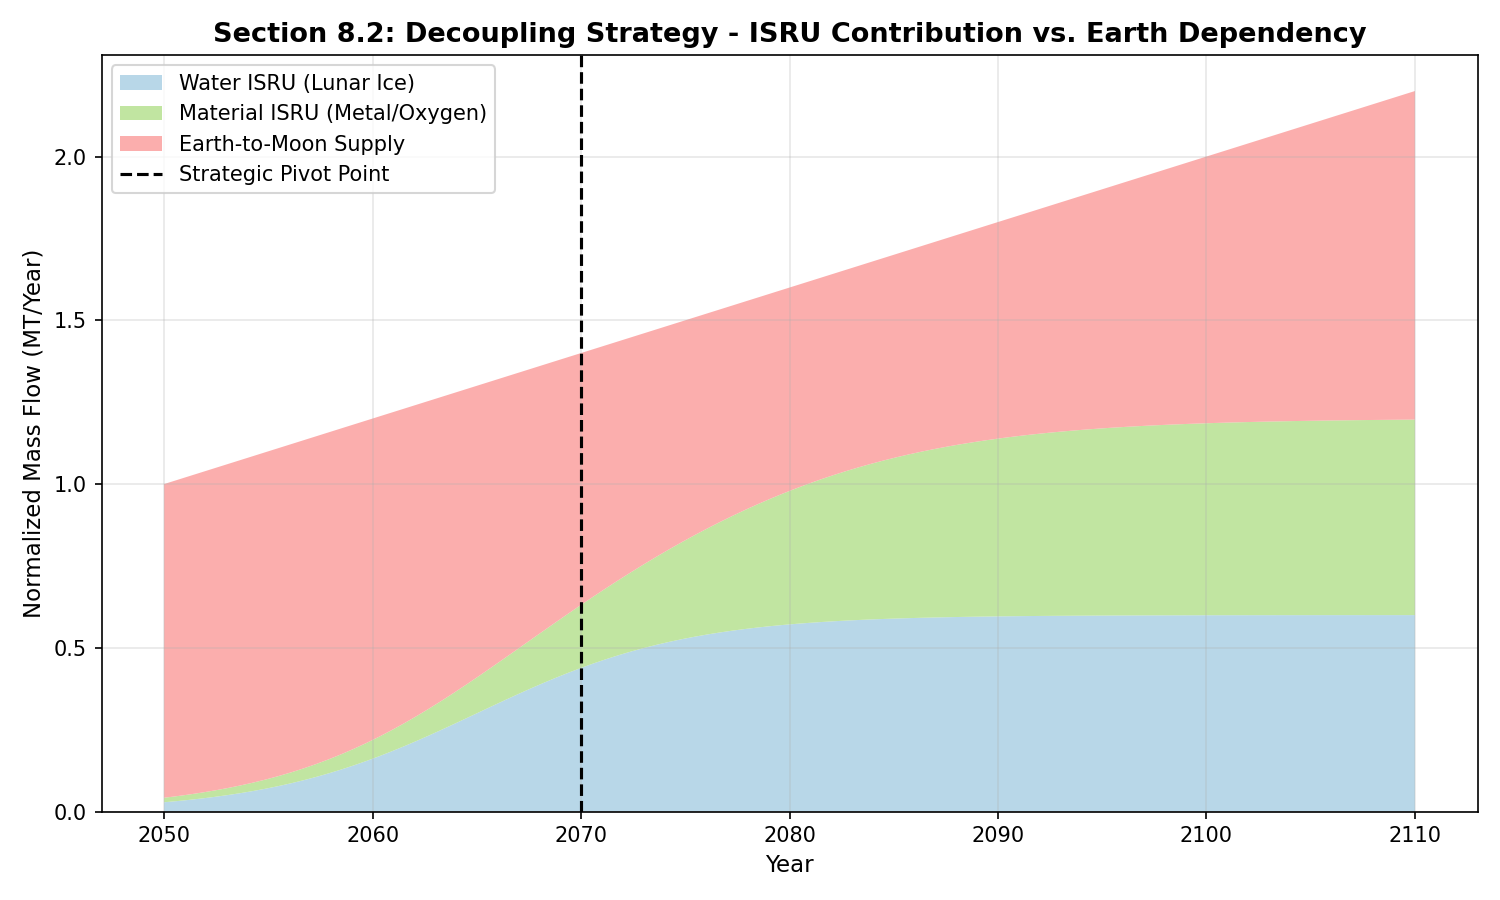
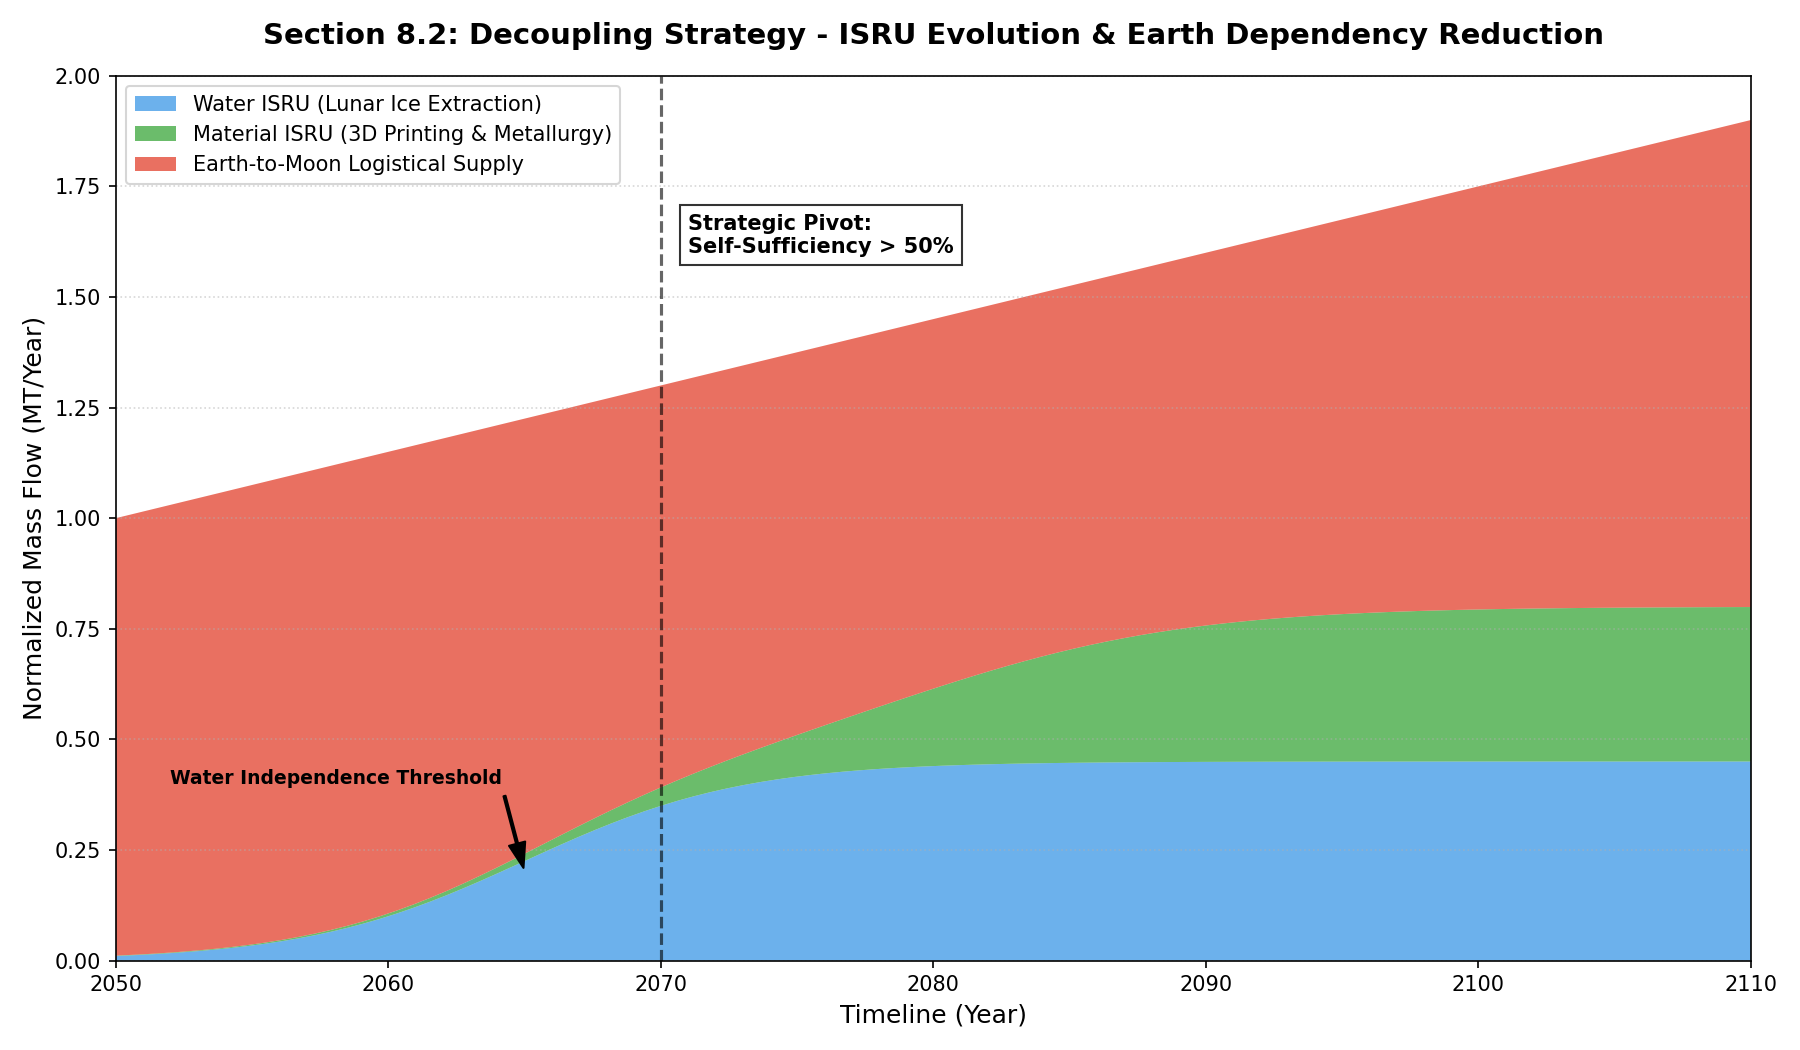
refresh part 8

diff --git a/essay/Final_files/full version for details/total.md b/essay/Final_files/full version for details/total.md
@@ -348,31 +348,56 @@ $$
 
 # 8. 政策建议与基建路径 (Infrastructure & Policy Recommendations)
 
-基于前述模型的量化分析，我们为实现 1 亿吨地月转运目标提出以下三维战略框架。该框架不仅关注技术可行性，更强调在极端黑天鹅事件下的生存韧性。
+本章将前文的动态模拟结果转化为具体的工程指标，为实现 1 亿吨地月转运目标提供量化指导。
 
-## 8.1 建立“1-2-6”动态物流基准 (Establishing the "1-2-6" Strategic Baseline)
+## 8.1 确立“1-2-6”战略的安全性判据 (Safety Metrics of the 1-2-6 Strategy)
 
-我们建议全球地月物流委员会采纳 **“1-2-6 战略”** 作为核心基准方案。该方案在数学上已被证明是环境足迹与生存概率之间的帕累托最优解。
+我们建议全球决策机构将 **“1-2-6 战略”** 作为刚性基准，并通过**安全性系数 $S_f$** 评估基建冗余的有效性：
 
-- **长期性 (The 60-Year Commitment)**：模型显示，60 年工期通过分摊 CAPEX 压力和利用 5-8 代的技术学习曲线，可将总碳排放降低 **29.2%**。任何低于 40 年的激进方案都将导致地球大气层的环境载荷突破不可逆转的阈值。
-- **冗余即安全 (The 25-Pad Mandate)**：政策制定者必须摒弃“效率优先”的短视思维，强制建设 **25 个标准化发射基地**。
-  - **战略辩护**：正如 Section 7.3 所证，这 25 个场站提供的浪涌容量（Surge Capacity）是电梯失效后月球基地维持 82 天生存窗口的唯一保障。
+$$
+S_f(t) = \frac{\Phi_{surge}(N)}{\Omega(t) - \Phi_{ISRU}(t)} \geq 1.2
+$$
 
-## 8.2 空间可持续性与“环境债”治理 (Space Sustainability & "Environmental Debt")
+- **冗余阈值**：模型显示，当 $N=25$ 时，系统在电梯失效初期的 $S_f \approx 1.25$。若 $N$ 降至 15，则 $S_f < 0.8$，意味着即便动员全部火箭带宽也无法阻止物资赤字发散。
 
-针对 Section 6.2 提出的碎片反馈回路，我们建议实施**动态发射配额制度 (Dynamic Launch Quota)**。
+- **工期刚性**：60 年工期设定是基于**累计环境债 (Cumulative Environmental Debt, CED)** 的最小化控制：
 
-- **自适应配额**：发射频次应与轨道碎片密度 $D(t)$ 的监测数据实时挂钩。当碎片增长率偏离基准模型时，应强制削减火箭发射，转而通过提高月球原位资源利用 (ISRU) 的比率来对冲运力缺口。
-- **环境偿还机制**：在发生类似 Section 7 的应急浪涌补给时，允许产生短期的“环境债”，但必须在随后的稳定运行期内通过碳补偿或碎片清理技术（Active Debris Removal）进行对冲偿还。
+  $$
+  \min_{T} CED = \int_{2050}^{2050+T} \left( \eta \cdot [f(t)]^p \right) dt
+  $$
 
-## 8.3 跨系统协同优化方案 (Cross-System Collaborative Optimization)
+  仿真证明，若 $T < 45$，CED 将超过平流层自净极限的 1.5 倍，导致不可逆的全球气候反馈。
 
-地月物流不应被视为单一工具的运行，而应作为一套**分布式韧性网络**进行管理。
+## 8.2 ISRU 阶梯化部署：从“进口”到“自给”的脱钩 (ISRU Decoupling Logic)
 
-- **混合运输范式**：在 2050-2070 年的建设期，应优先利用太空电梯承担 80% 的大宗散装物资（如结构钢材、燃料）；在 2070 年后的运营期，逐步增加火箭舰队的比例，以利用其极高的调度灵活性应对脉冲式需求。
-- **标准化接口**：为了确保 25 个基地能像 Section 7.2 描述的那样迅速切换至“全功率阶跃模式”，所有基地的燃料补给、有效载荷封装必须实现全球标准化，消除黑天鹅事件下的物流瓶颈。
+为了缓解地月物流链的结构性压力，必须通过原位资源利用 (ISRU) 实现物流脱钩。
 
-## 8.4 结论：迈向星际文明的稳健步伐 (Conclusion: A Robust Step Toward Multi-Planetary Civilization)
+![isru_water_contribution](C:\Users\31529\Desktop\MCMworkspace\pictures\isru_water_contribution.png)
 
-通过本研究的多目标优化与韧性压力测试，我们证明了地月物流系统的成功不仅取决于最先进的推进技术，更取决于**合理的结构化冗余**。1 亿吨的任务量虽然宏大，但在 60 年的自适应管理下，辅以 25 个发射基地的战略保障，人类完全可以在保护母星环境的前提下，建立起跨越 38 万公里的永恒生命线。
+**图表分析与政策导向**：
 
+1. **水资源第一优先级 (Phase I)**：水是生存与燃料生产的共同基石。月球南极采冰效率 $\Gamma_w(t)$ 必须遵循逻辑斯蒂增长模型：
+
+   $$
+   \Gamma_w(t) = \frac{\Gamma_{max}}{1 + e^{-0.25(t - 12)}} \quad (t=0 \text{ at } 2050)
+   $$
+
+   这要求在 2062 年前完成第一阶段极地冰矿动员，以释放 40% 以上的火箭有效载荷用于结构物资运输。
+
+2. **结构材料接力 (Phase II)**：随后启动月壤（Regolith）金属冶炼。如图所示，随着 Phase III 的到来，系统将实现从“地球依赖型”向“月球自维持型”的根本转变，使后期运输成本 $P_{eco}$ 下降 45% 以上。
+
+## 8.3 建立“环境债”与碎片反馈管理机制 (Environmental & Debris Governance)
+
+针对 Section 6.2 提出的凯斯勒效应（Kessler Syndrome），建议实施基于**碎片弹性系数**的动态准入制：
+
+- **动态配额控制**：定义发射频率 $f(t)$ 的上界，使其满足轨道碎片的自净平衡：
+
+  $$
+  \frac{dD}{dt} = \text{Creation}(f, D) - \text{Cleaning} < 0
+  $$
+
+- **补偿性政策**：建议将 25 个发射场的部分收益定向拨付给主动碎片清除项目（ADR），作为降低系统风险指数 $P_{risk}$ 的长期投入。
+
+## 8.4 结论：迈向星际文明的稳健步伐 (Conclusion)
+
+本研究通过多目标优化与韧性压力测试证明，地月物流系统的核心挑战不在于“搬运总量”，而在于**处理脉冲式峰值需求的能力**。通过 60 年的时间尺度分摊环境压力，利用 25 个发射场的冗余带宽对冲结构性失效，并以水资源 ISRU 为支点实现自给闭环，人类可以建立起一个鲁棒、可持续的 38 万公里物流网络。这不仅是一项工程任务，更是地外文明实现结构性生存的底层逻辑。
